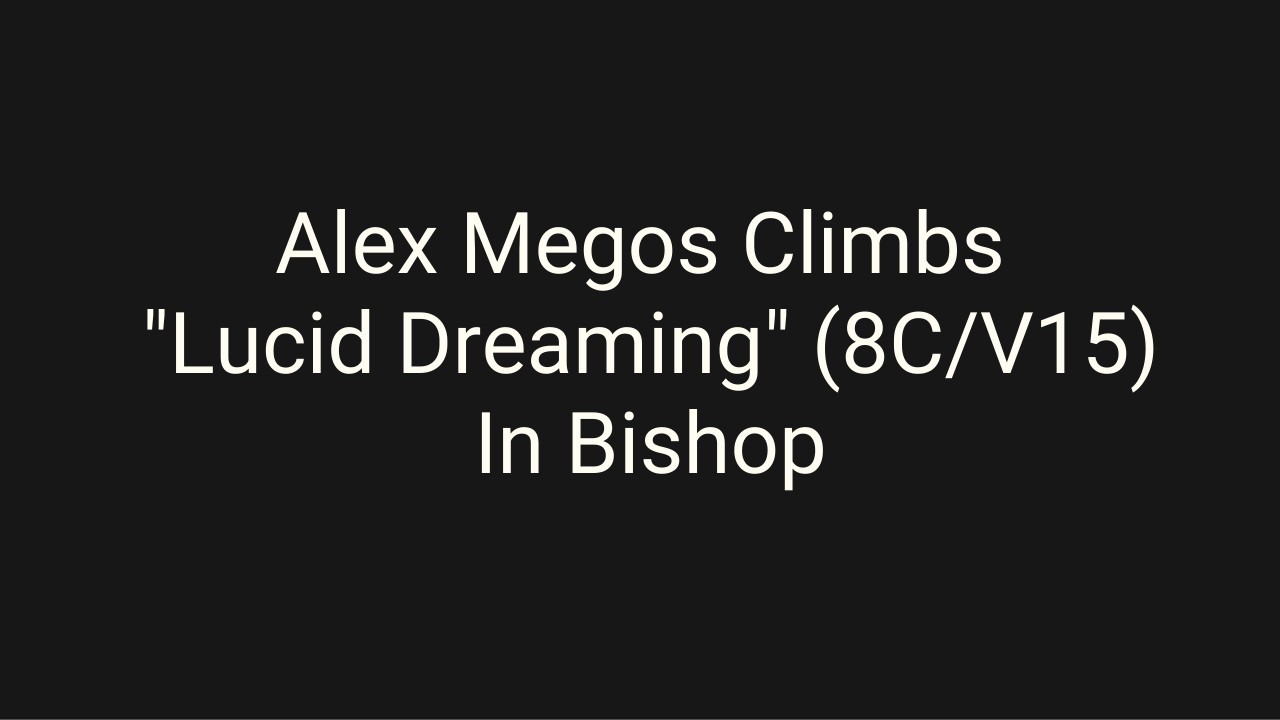
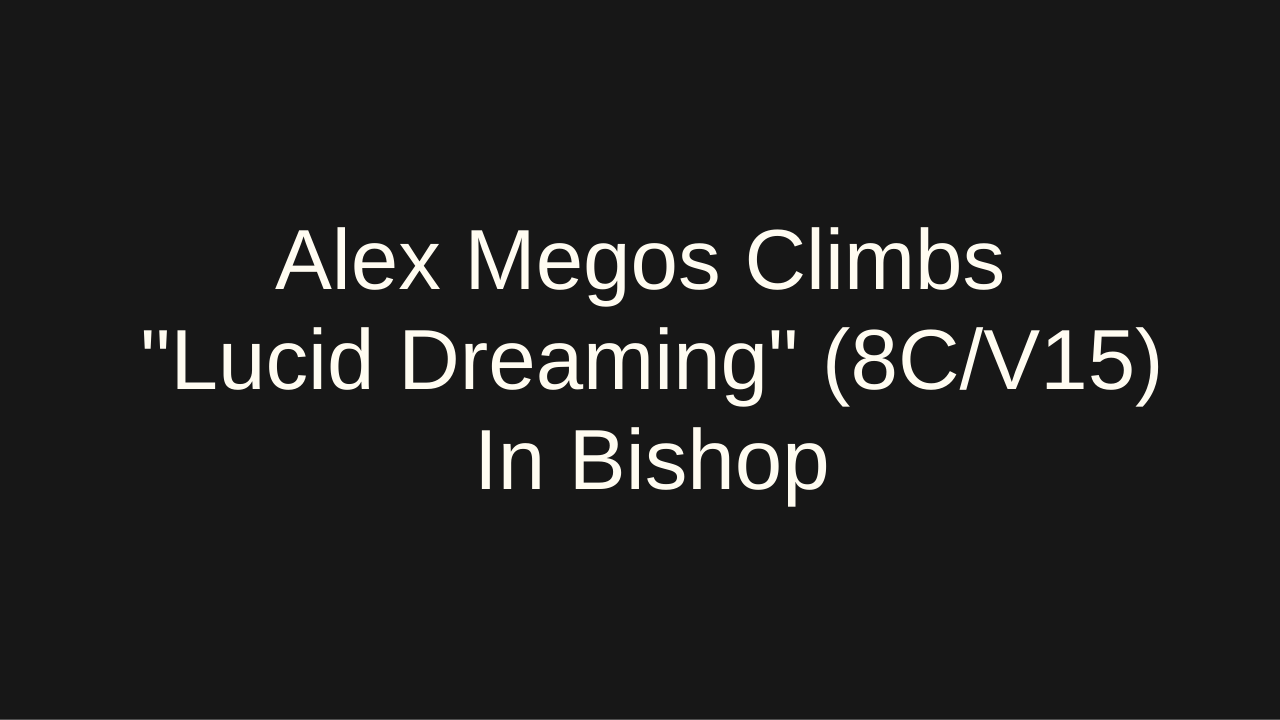
フォントを修正

Changed region(s): [[0.0938, 0.275, 0.9062, 0.7028]]

diff --git a/pages/search/index.vue b/pages/search/index.vue
@@ -86,8 +86,8 @@
         <div class="pt-10 pb-2">
           <layout-tag-wrapper>
             <base-tag 
-              title="Wide Boyz"
-              url="tag/nmj89vf2lbzz/"
+              title="Stone Masters"
+              url="tag/2tgmrydm0new/"
               className="text-cGreen border-cGreen leading-8 border text-center rounded-full"
             />
             <base-tag 
@@ -95,6 +95,12 @@
               url="tag/zpndasjqy/"
               className="text-cGreen border-cGreen leading-8 border text-center rounded-full"
             />
+            <base-tag 
+              title="Wide Boyz"
+              url="tag/nmj89vf2lbzz/"
+              className="text-cGreen border-cGreen leading-8 border text-center rounded-full"
+            />
+            
           </layout-tag-wrapper>
         </div>
         <div class="pt-10 pb-2">

diff --git a/tailwind.config.js b/tailwind.config.js
@@ -40,7 +40,7 @@ module.exports = {
         'cAcc': '#DC2626',
       },
       fontFamily: {
-        sans: ['Roboto', 'Helvetica Neue', 'Helvetica', 'Arial', 'sans-serif']
+        sans: ['Helvetica Neue', 'Helvetica', 'Arial', 'sans-serif']
       },
     },
   },
